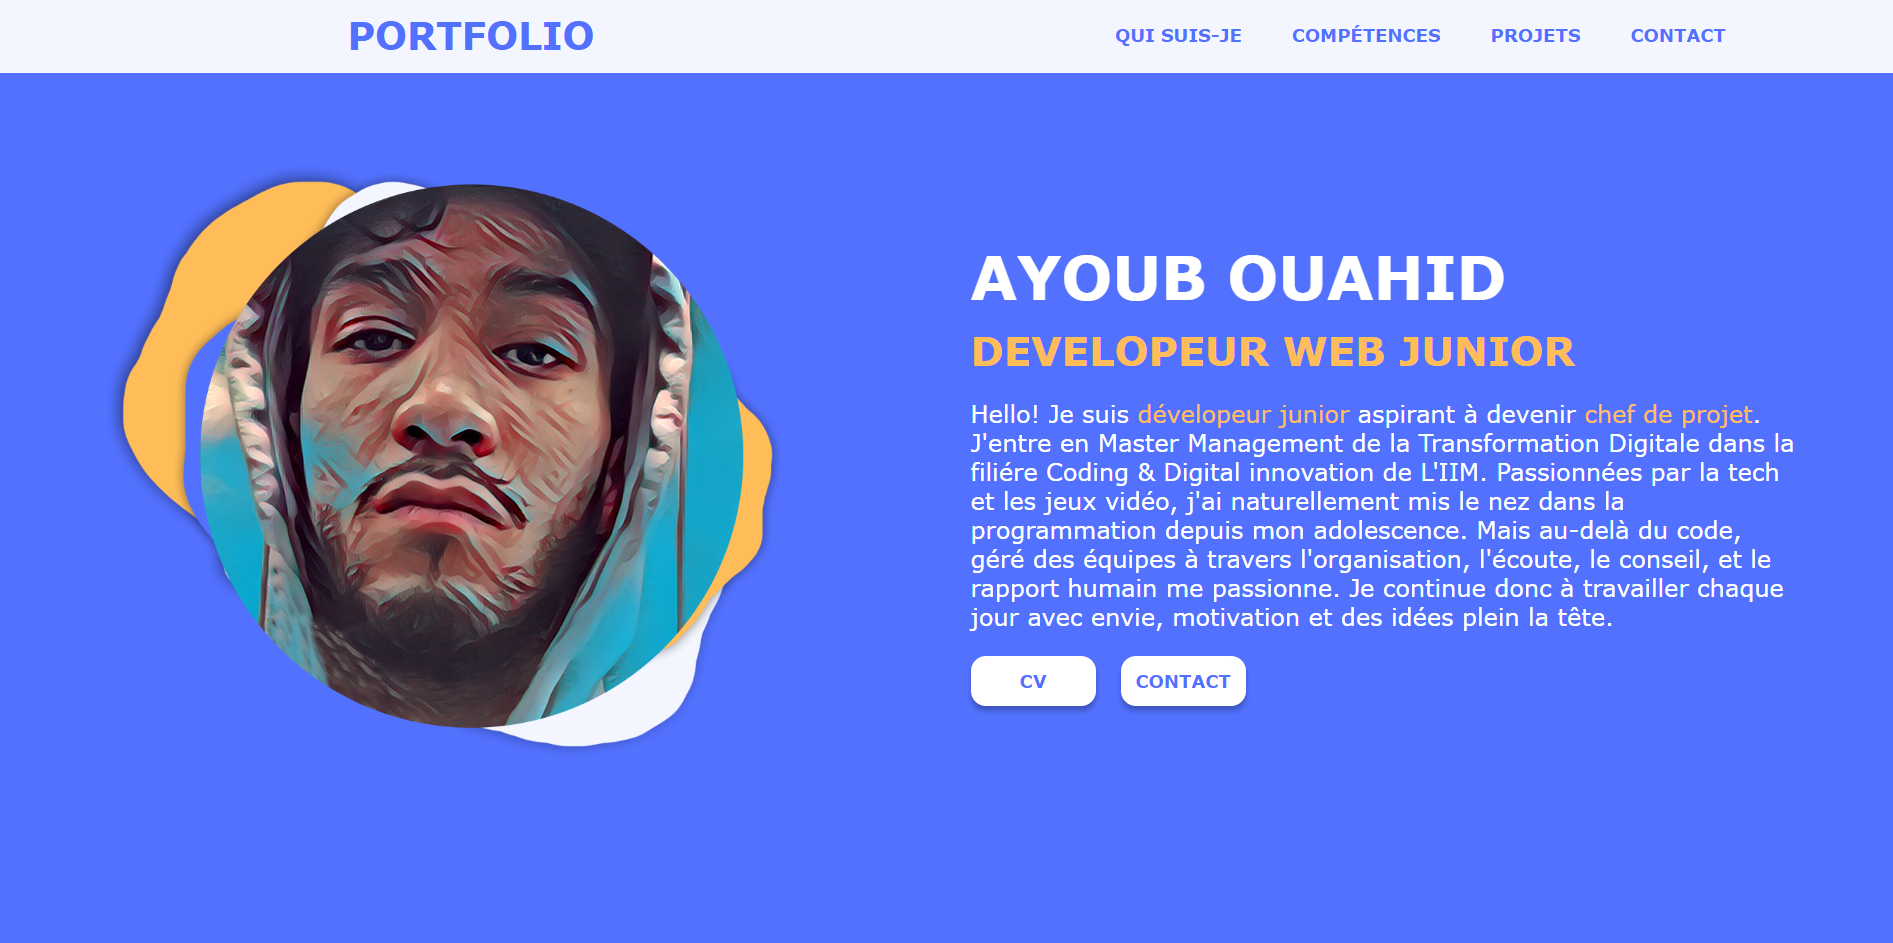
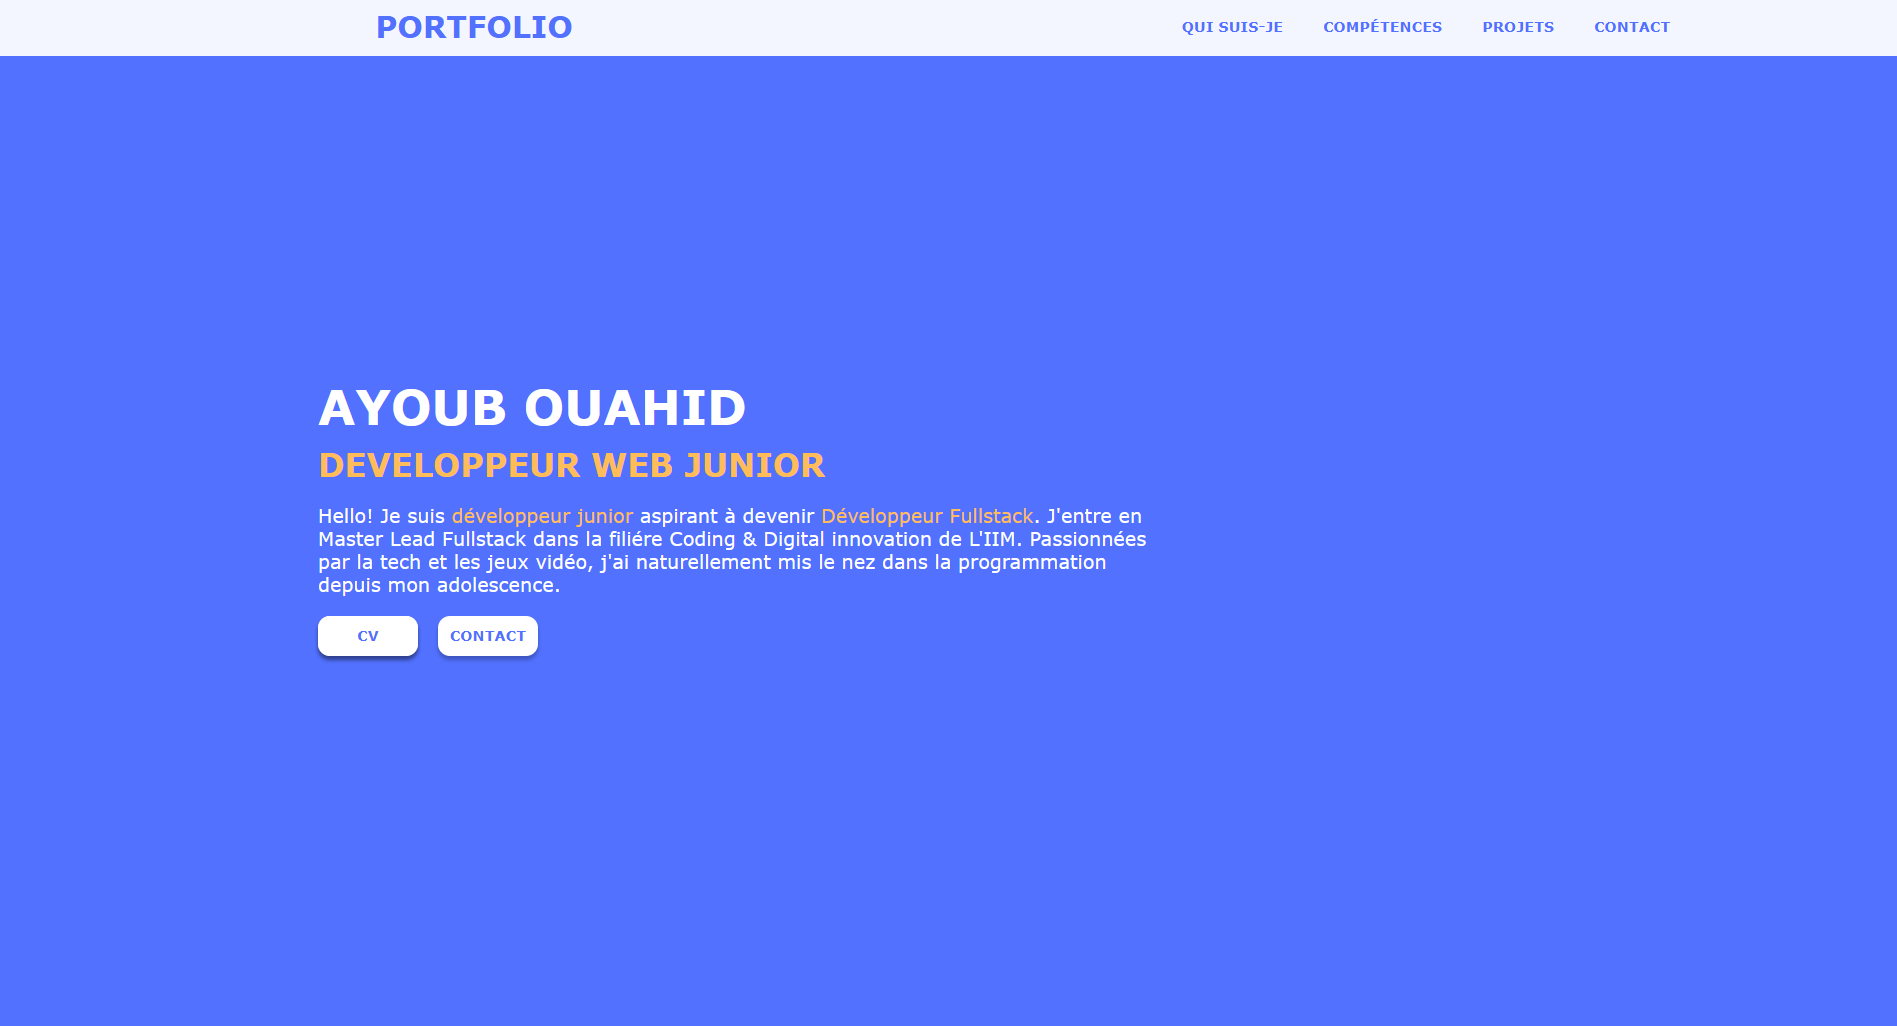
fix img

Changed region(s): [[0.0623, 0.1845, 0.9662, 0.7996], [0.0, 0.0, 1.0, 0.0923], [0.4987, 0.246, 0.8415, 0.3998]]

diff --git a/style.css b/style.css
@@ -75,15 +75,7 @@ nav {
   width: 100%;
   background-color: #5271ff;
 }
-.nameleft {
-  color: #5271ff;
-  display: flex;
-  justify-content: center;
-  align-items: center;
-}
-.nameleft img {
-  width: 80%;
-}
+
 .nameright {
   display: flex;
   flex-direction: column;
@@ -91,6 +83,7 @@ nav {
   gap: 10px;
   padding-left: 20px;
   width: 90%;
+  margin-left: 300px;
 }
 .nameright h2 {
   font-size: 3rem;

diff --git a/index.html b/index.html
@@ -28,12 +28,9 @@
       </div>
     </nav>
 
-    <div class="alternance">
-      <h2 class="halternance"> à la recherche d'une alternance pour la rentrée 2023.</h2>
-    </div>
+    
 
     <div class="sectionName" >
-      <div class="nameleft"><img src="./assets/photo.png" alt=""></div>
       <div class="nameright"id="">
         <h2>AYOUB OUAHID</h2>
         <h3 >DEVELOPPEUR WEB JUNIOR</h3>
